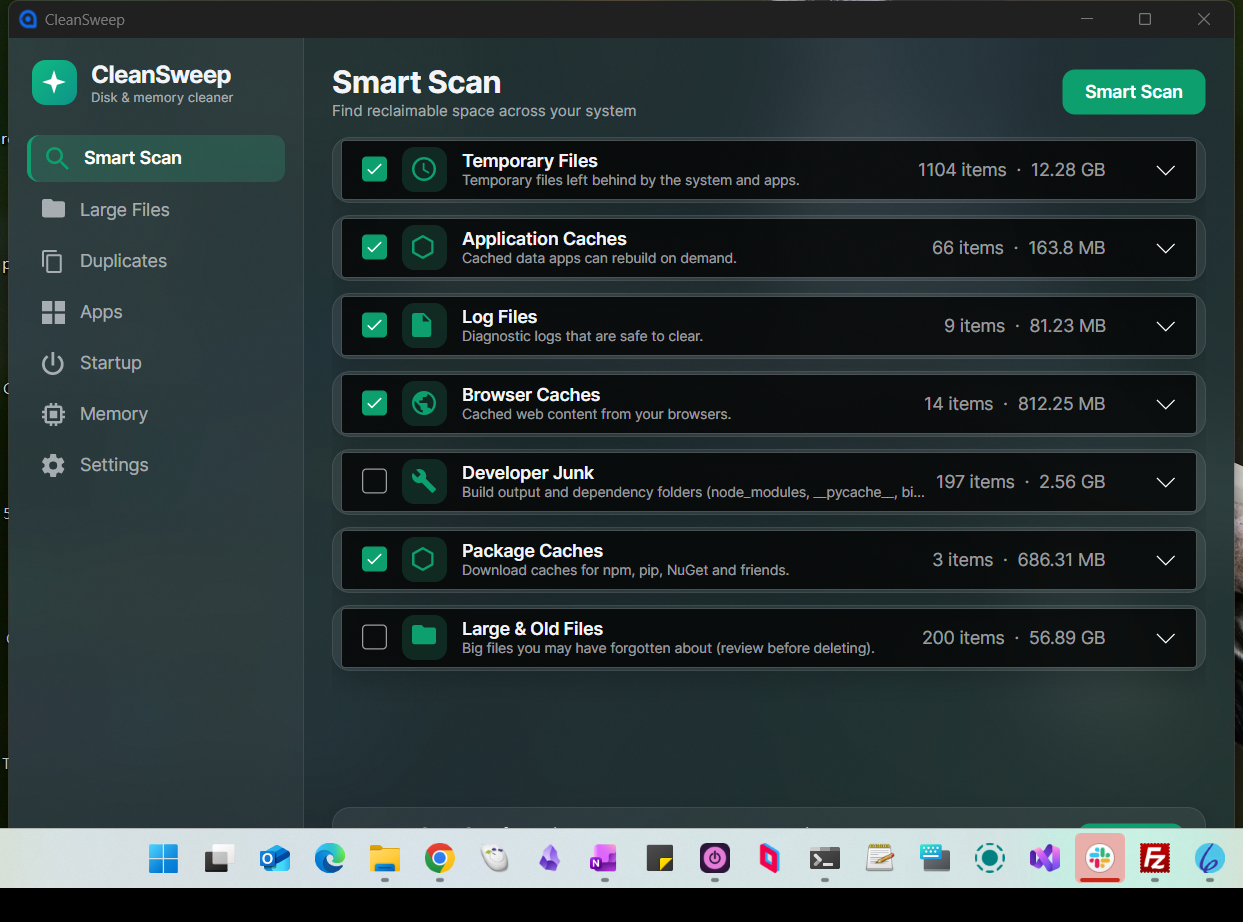
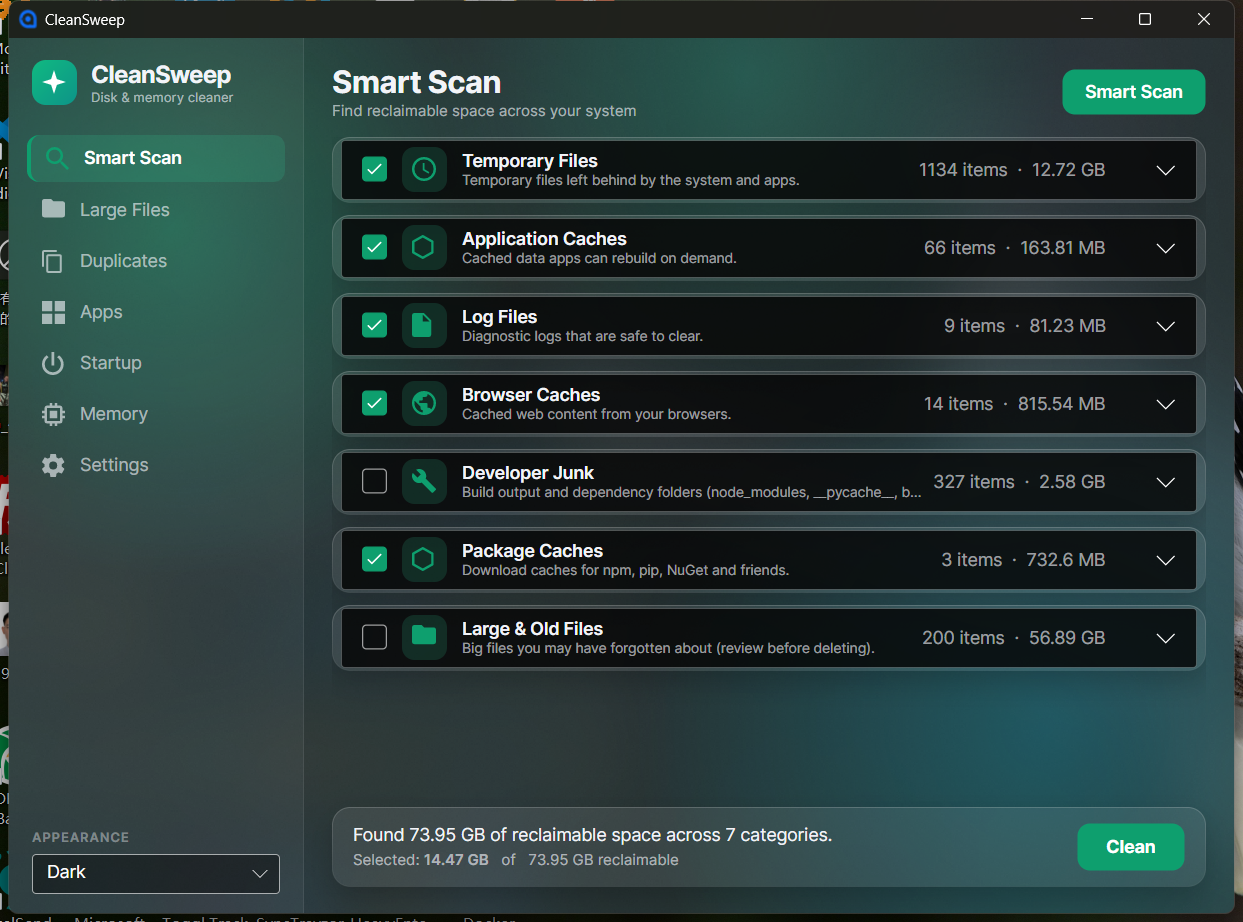
Make the glass effect obvious and add motion
Add soft radial colour pools behind the panels and make the cards more
translucent with a bright top rim, so surfaces read as frosted glass in both
themes. Cross-fade between sidebar sections and lift cards on hover. Refresh
the README screenshots.

diff --git a/src/CleanSweep/Converters/BoolToOpacityConverter.cs b/src/CleanSweep/Converters/BoolToOpacityConverter.cs
@@ -1,0 +1,15 @@
+using System;
+using System.Globalization;
+using Avalonia.Data.Converters;
+
+namespace CleanSweep.Converters;
+
+/// <summary>true -> 1.0, false -> 0.0. Used to cross-fade section pages.</summary>
+public sealed class BoolToOpacityConverter : IValueConverter
+{
+    public object Convert(object? value, Type targetType, object? parameter, CultureInfo culture)
+        => value is true ? 1.0 : 0.0;
+
+    public object ConvertBack(object? value, Type targetType, object? parameter, CultureInfo culture)
+        => throw new NotSupportedException();
+}